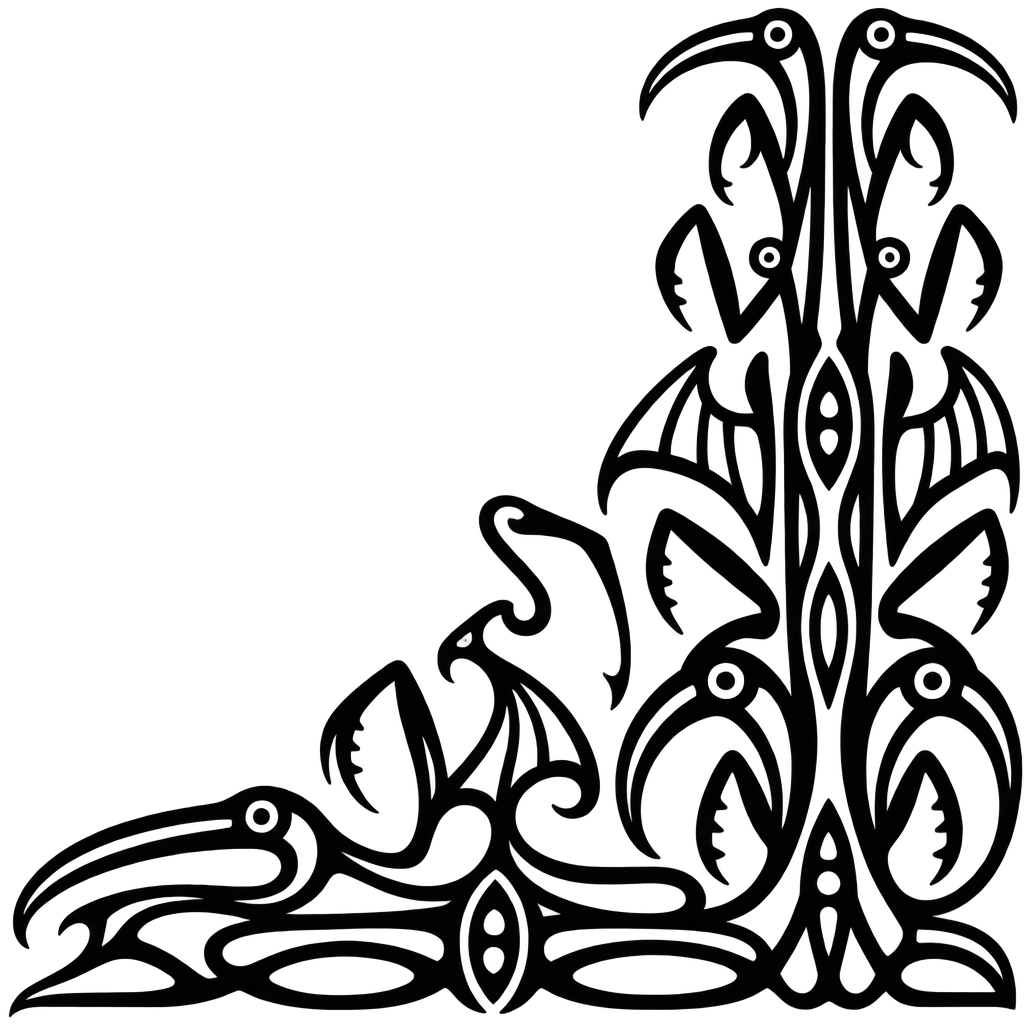
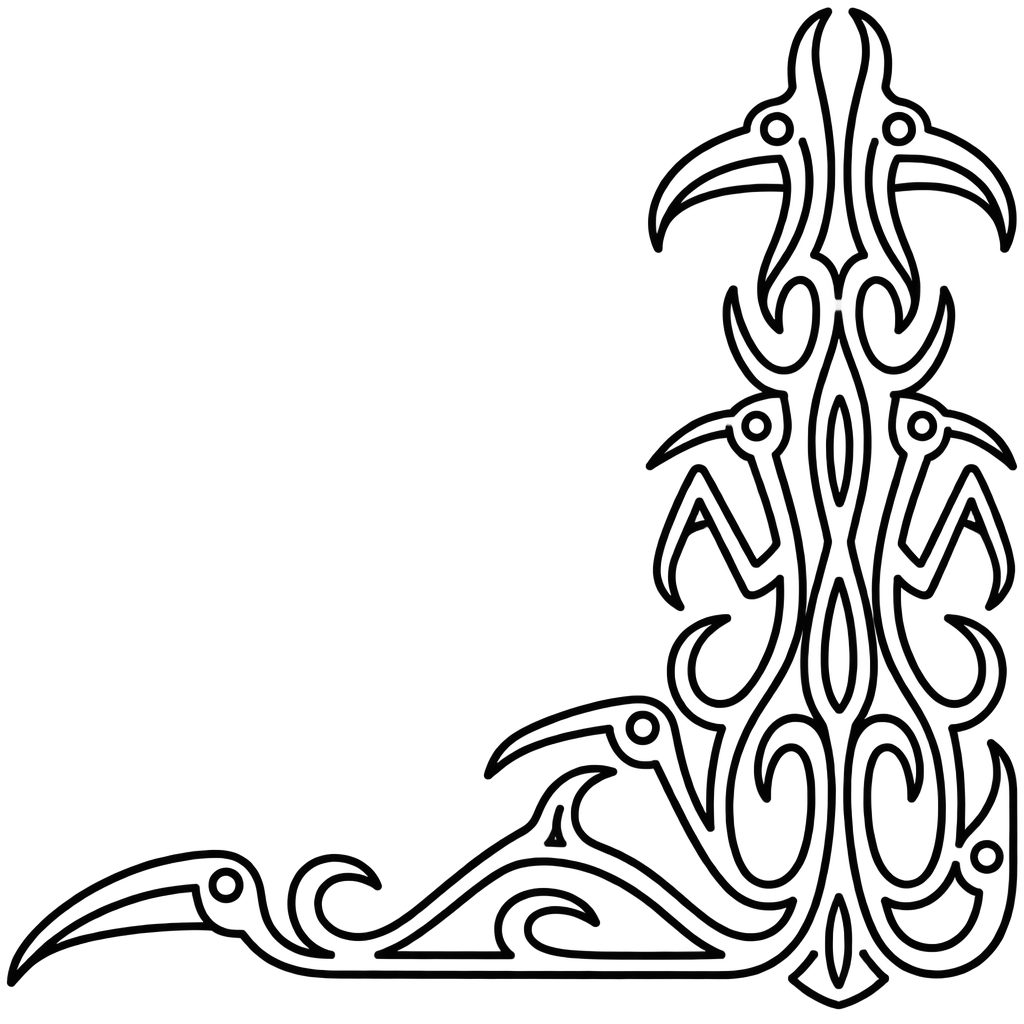
feat(motifs): regenerate eight ornaments at a uniform line weight

Changed region(s): [[0.0, 0.0, 1.0, 1.0]]

diff --git a/README.md b/README.md
@@ -98,10 +98,10 @@ To add a brand:
 
 Faint Nusantara ornaments sit in the corners of the pages outside the app (sign-in, setup, password reset, invitations, errors) and at the bottom of the sidebar. There are eleven, one per major region, ordered west to east: Pintu Aceh, Gorga, Pucuk Rebung, Megamendung, Kawung, Batang Garing, Patra Punggel, Pa' Barre Allo, Mamuli, Tenun Tanimbar and Ukiran Asmat. Everyone sees the same motif each day (it changes at midnight `APP_TIMEZONE`); each user can pin one or turn them off from the user menu (**Motif**) or the command palette, stored in `users.motif`. The ⓘ button outside the app and **About …** in the menu show a short cultural note.
 
-The images are masks: `components/motif-watermark.tsx` paints `--ring` (the accent's saturated step) through them, so they follow the theme and accent. The source art in `design/motifs/` was generated with `gpt-image-2.5-sunburst` (prompts in `design/motifs/prompts.json`).
+The images are masks: `components/motif-watermark.tsx` paints `--ring` (the accent's saturated step) through them, so they follow the theme and accent. The source art in `design/motifs/` was generated with `gpt-image-2.5-sunburst` (templates and per-motif subjects in `design/motifs/prompts.json`).
 
 To add or replace a motif:
-1. Put a black-on-transparent PNG at `design/motifs/<slug>.png` and run `node scripts/build-motifs.mjs`.
+1. Put a black-on-transparent PNG at `design/motifs/<slug>.png` and run `node scripts/build-motifs.mjs`. Generate a new motif with the `v2` template in `prompts.json`: its uniform line weight keeps every ornament at a similar density.
 2. For a new motif, add it to `MOTIFS` in `lib/motifs.ts` at its place by longitude.
 3. Add its `items.<slug>` caption to `motifs` in all five `messages/*.json` files.
 
